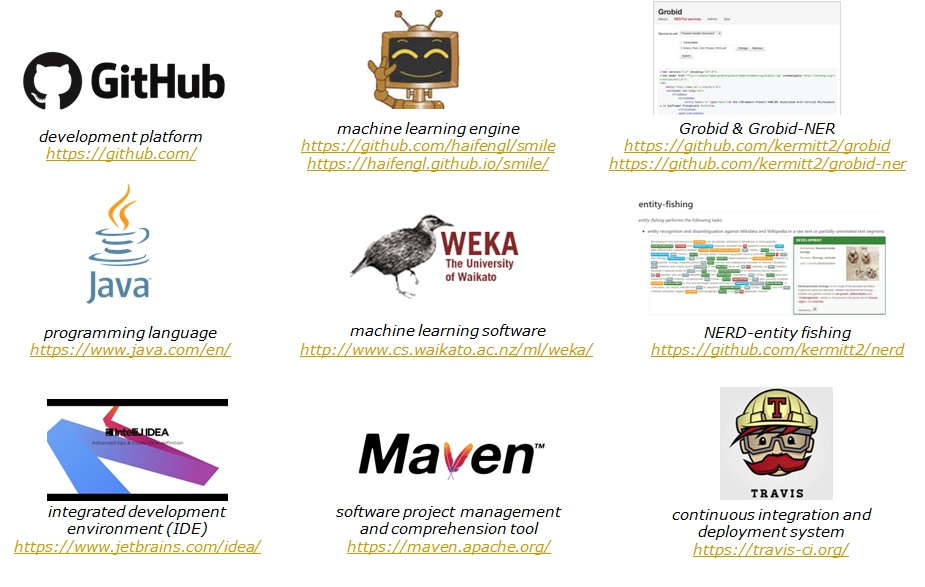
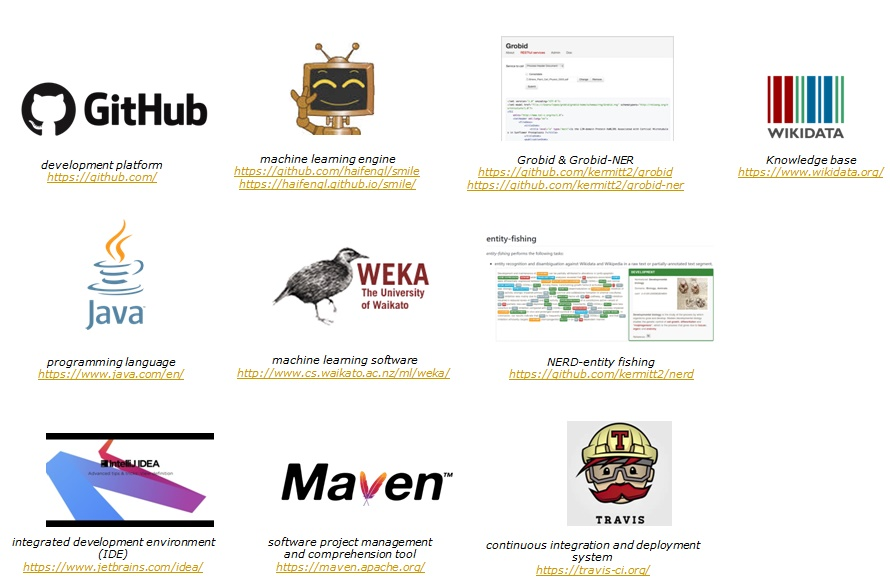
changing file's name, picture of tools, class to access API of Wikidata

Changed region(s): [[0.0, 0.0, 1.0, 0.9813], [0.7888, 0.0613, 0.8191, 0.092]]

diff --git a/src/main/java/restAPI/callAPIWikidata.java b/src/main/java/restAPI/callAPIWikidata.java
@@ -1,0 +1,37 @@
+package restAPI;
+
+import org.wikidata.wdtk.datamodel.interfaces.*;
+import org.wikidata.wdtk.wikibaseapi.WikibaseDataFetcher;
+
+import java.util.Map;
+
+public class callAPIWikidata {
+
+    public static void main(String[] args) throws Exception{
+        //public void accessAPI() throws Exception {
+
+
+        System.out.println("** Aceess API of Wikidata **");
+
+        // object of Wikidata's data fetcher
+        WikibaseDataFetcher wikibaseDataFetcher = WikibaseDataFetcher.getWikidataDataFetcher();
+
+        // for fetching data for entities
+        EntityDocument entities = wikibaseDataFetcher.getEntityDocument("Q76");
+
+        ItemDocument itemDocument = (ItemDocument) entities;
+
+        if (itemDocument == null){
+            System.out.println(((ItemDocument) entities).getItemId() + "couldn't be fetched");
+            return;
+        }
+
+        for (StatementGroup statementGroup : itemDocument.getStatementGroups()){
+            System.out.println(statementGroup.getProperty().getId());
+        }
+
+        /**for (StatementGroup statementGroup : entities.)){
+            System.out.println("");
+        }**/
+    }
+}

diff --git a/src/main/java/restAPI/mainRestService.java b/src/main/java/restAPI/mainRestService.java
@@ -11,10 +11,10 @@ public class mainRestService {
         String url, query;
 
         // object of callRestAPI
-        callRestAPI call = new callRestAPI();
+        callRestAPINERD call = new callRestAPINERD();
 
         Scanner scanner = new Scanner(System.in);
-        System.out.println("Accessing REST API of NERD, Example in /data/example/exampleCurl.txt");
+        System.out.println("Accessing REST API of NERD, Example in /data/example/exampleCurlNERD.txt");
         System.out.print("URL : ");
         url = scanner.nextLine();
         System.out.print("Query : ");

diff --git a/src/main/java/restAPI/callRestAPINERD.java b/src/main/java/restAPI/callRestAPINERD.java
@@ -5,11 +5,11 @@ import java.io.*;
 import java.util.ArrayList;
 
 
-public class callRestAPI {
+public class callRestAPINERD {
 
     public void useCurl(String url, String query) throws Exception{
 
-        System.out.println("Accessing REST API Nerd");
+        System.out.println("** Accessing REST API Nerd **");
 
         // adding new elements of command in array list of string
         ArrayList<String> element = new ArrayList<String>();
